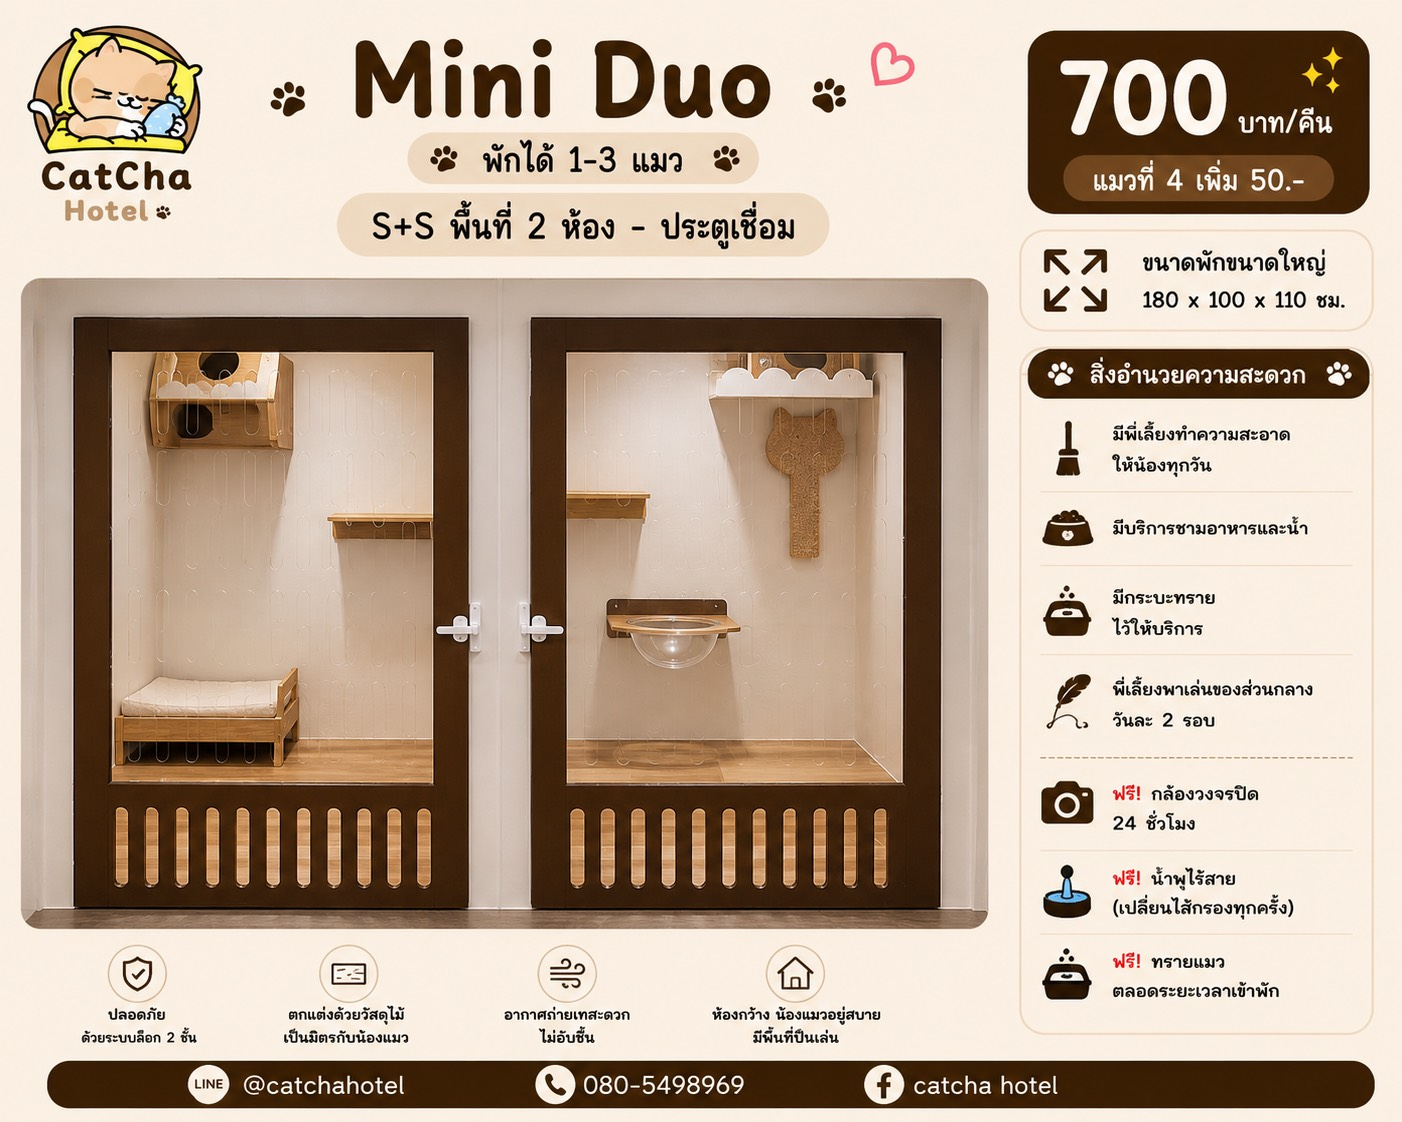
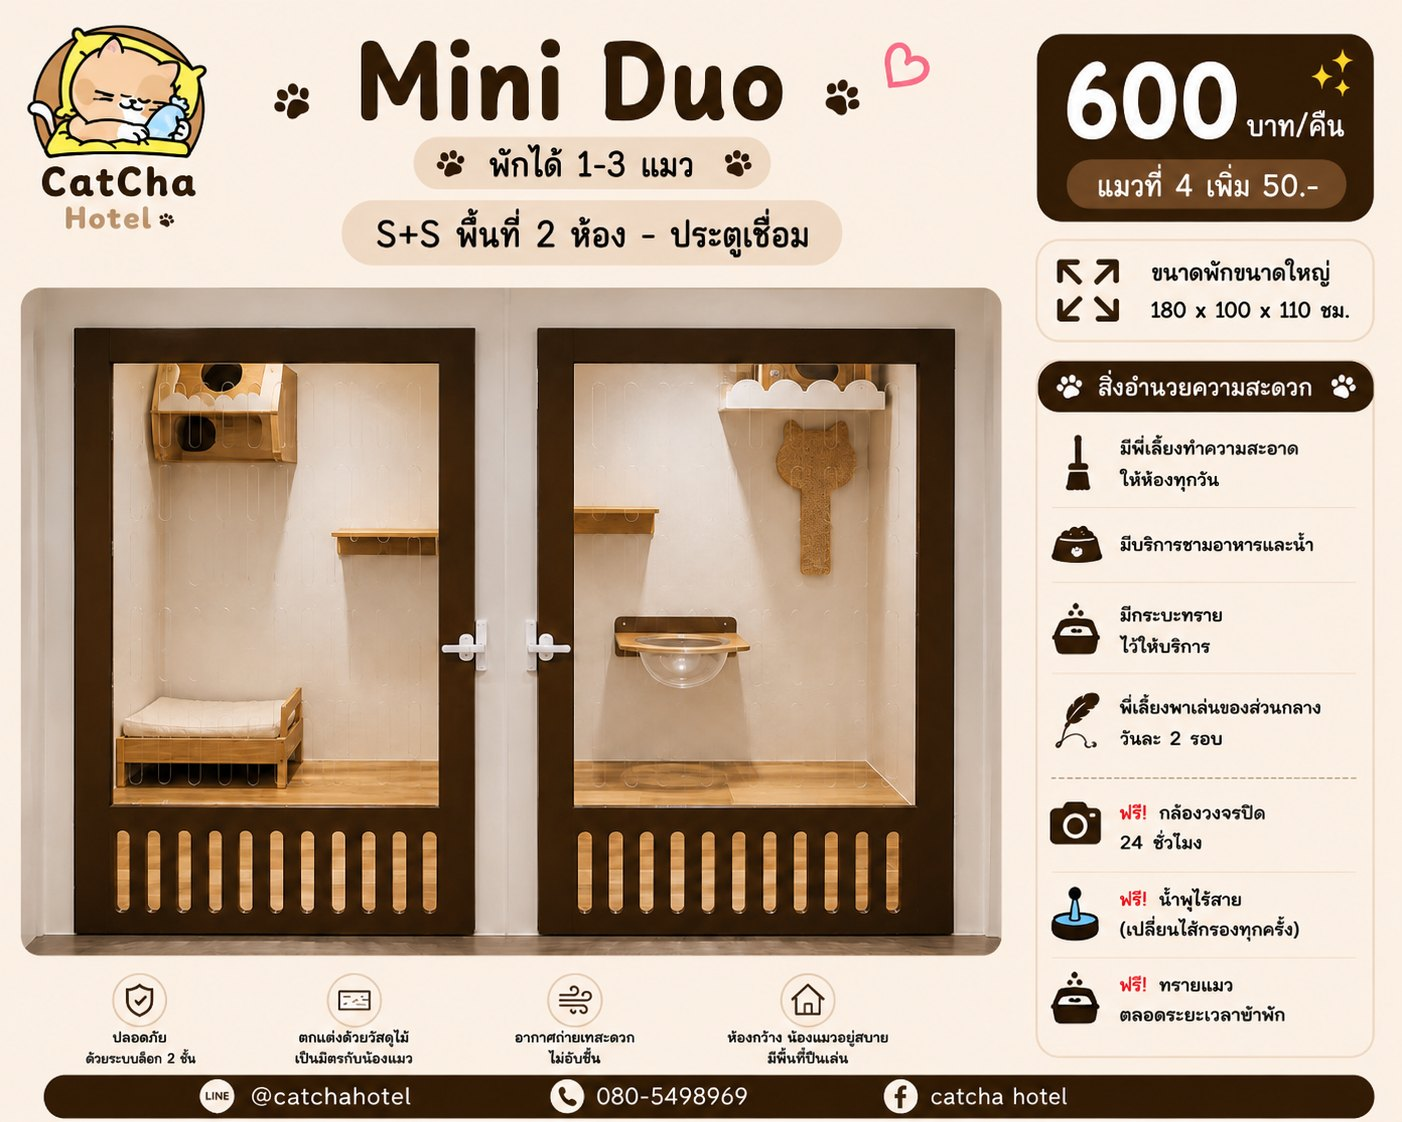
Mini Duo ราคา 600 บาท/คืน + เปลี่ยนรูปโปสเตอร์ไทยเป็นรูปใหม่ (600) (#247)
Claude-Session: https://claude.ai/code/session_011j1uW976HQvz84WRfcfBvM

diff --git a/webapp/src/lib/business.ts b/webapp/src/lib/business.ts
@@ -135,7 +135,7 @@ export const ROOMS: RoomType[] = [
     id: "mini-duo",
     name: "Mini Duo",
     size: "S+S",
-    price: 700,
+    price: 600,
     cats: { th: "1–3 แมว", en: "1–3 cats" },
     extra: { th: "แมวที่ 4 +50", en: "4th cat +50" },
     dimensions: { th: "180×100×110 ซม.", en: "180×100×110 cm" },
